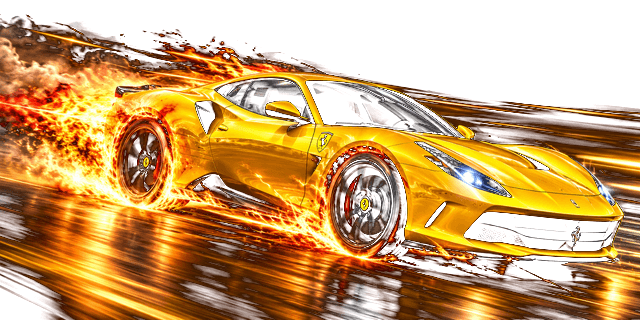
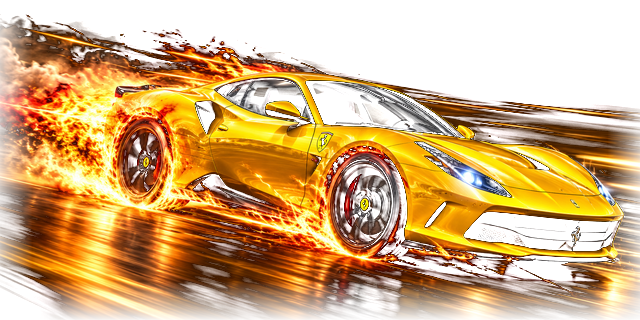
Apply exec_tool script file changes

Changed region(s): [[0.0625, 0.3125, 1.0, 1.0], [0.0, 0.0625, 0.0625, 0.9375], [0.75, 0.5625, 0.7812, 0.5938]]

diff --git a/src/styles/giftScenes.css b/src/styles/giftScenes.css
@@ -419,16 +419,42 @@
        Araba görselinin siyah/saydam zemini blend ile kaybolur; gövde yolda titrer,
        hız çizgileri ardında akar. --- */
 .gift-scene-car .gift-scene-car-photo {
-  width: 190px;
-  height: 92px;
+  width: 210px;
+  height: 105px;
+  bottom: 15%;
 }
 .gift-scene-car-photo-img {
-  display: block;
   height: 100%;
   width: 100%;
-  mix-blend-mode: screen;
-  filter: drop-shadow(0 10px 16px rgba(0, 0, 0, 0.55)) drop-shadow(0 0 12px rgba(248, 113, 113, 0.45));
+  filter: drop-shadow(0 6px 10px rgba(0, 0, 0, 0.6)) drop-shadow(0 0 16px rgba(250, 204, 21, 0.45));
   animation: gift-scene-car-hop 0.55s ease-in-out infinite;
+}
+/* Aracın arkasındaki sıcak ışık: koyu yolda araba silueti belirginleşir. */
+.gift-scene-car-glow {
+  position: absolute;
+  left: 12%;
+  right: 4%;
+  bottom: 8%;
+  height: 46%;
+  border-radius: 9999px;
+  background: radial-gradient(ellipse at center, rgba(250, 204, 21, 0.5), rgba(249, 115, 22, 0.22) 55%, transparent 76%);
+  filter: blur(8px);
+  animation: gift-scene-car-glow 1.1s ease-in-out infinite alternate;
+}
+@keyframes gift-scene-car-glow {
+  from { opacity: 0.55; }
+  to { opacity: 1; }
+}
+/* Asfalt üstündeki far ışığı: tekerleklerin altına düşen aydınlık araba ile yol arasında bağ kurar. */
+.gift-scene-car-roadlight {
+  position: absolute;
+  left: 4%;
+  right: 4%;
+  bottom: -7px;
+  height: 15px;
+  border-radius: 9999px;
+  background: radial-gradient(ellipse at center, rgba(253, 224, 71, 0.65), rgba(249, 115, 22, 0.25) 55%, transparent 78%);
+  filter: blur(4px);
 }
 @keyframes gift-scene-car-hop {
   0%, 100% { transform: translateY(0) scale(1); }
@@ -514,5 +540,5 @@
   .gift-scene-pulse, .gift-scene-road, .gift-scene-drive, .gift-scene-rise, .gift-scene-launch,
   .gift-scene-fly, .gift-scene-spin, .gift-scene-rays, .gift-scene-burst, .gift-scene-boom,
   .gift-scene-wake, .gift-scene-car-wheel, .gift-scene-twinkle,
-  .gift-scene-car-photo-img, .gift-scene-car-streaks { animation: none; }
+  .gift-scene-car-photo-img, .gift-scene-car-streaks, .gift-scene-car-glow { animation: none; }
 }

diff --git a/src/components/voice/scenes/SceneCar.jsx b/src/components/voice/scenes/SceneCar.jsx
@@ -1,10 +1,14 @@
 import { Image } from '@/components/ui/image';
 import GiftVisual from '@/components/voice/scenes/GiftVisual';
 
+// Spor araba görselinin siyah zemini alfaya çevrildi: araba kutunun içinde değil,
+// gerçekten yolda gidiyor gibi görünür (bkz. public/gifts/spor-araba.png).
+const CAR_CUTOUT = '/gifts/spor-araba.png';
+
 /** Yol sahnesi: hediye arabanın üstünde, farları yanarak gece yolunda hızla geçer. */
 export default function SceneCar({ gift }) {
-  // Araba görseli olan hediyede resim doğrudan araç olur: farları yanar, gövdesi yolda titrer,
-  // hız çizgileri ardında akar — hediye durağan resim gibi değil, geçen bir araba gibi görünür.
+  // Görselli hediyede arabanın kendisi yola çıkar; zemin şeffaf olduğu için kare iz kalmaz,
+  // asfalt üstündeki far ışığı ve silueti izleyen ışıltı aracı yola oturtur.
   if (gift?.imageUrl) {
     return (
       <div className="gift-scene gift-scene-car">
@@ -13,16 +17,16 @@ export default function SceneCar({ gift }) {
           <div className="gift-scene-road-line" />
         </div>
         <div className="gift-scene-vehicle gift-scene-car-photo">
-          <span className="gift-scene-car-photo-img">
-            <Image
-              src={gift.imageUrl}
-              alt={gift.name || 'Spor araba'}
-              className="h-full w-full"
-              fittingType="fit"
-              originWidth={1774}
-              originHeight={887}
-            />
-          </span>
+          <span className="gift-scene-car-glow" />
+          <span className="gift-scene-car-roadlight" />
+          <Image
+            src={CAR_CUTOUT}
+            alt={gift.name || 'Spor araba'}
+            className="gift-scene-car-photo-img"
+            fittingType="fit"
+            originWidth={640}
+            originHeight={320}
+          />
           <span className="gift-scene-car-streaks" />
           <div className="gift-scene-car-beam" />
         </div>
